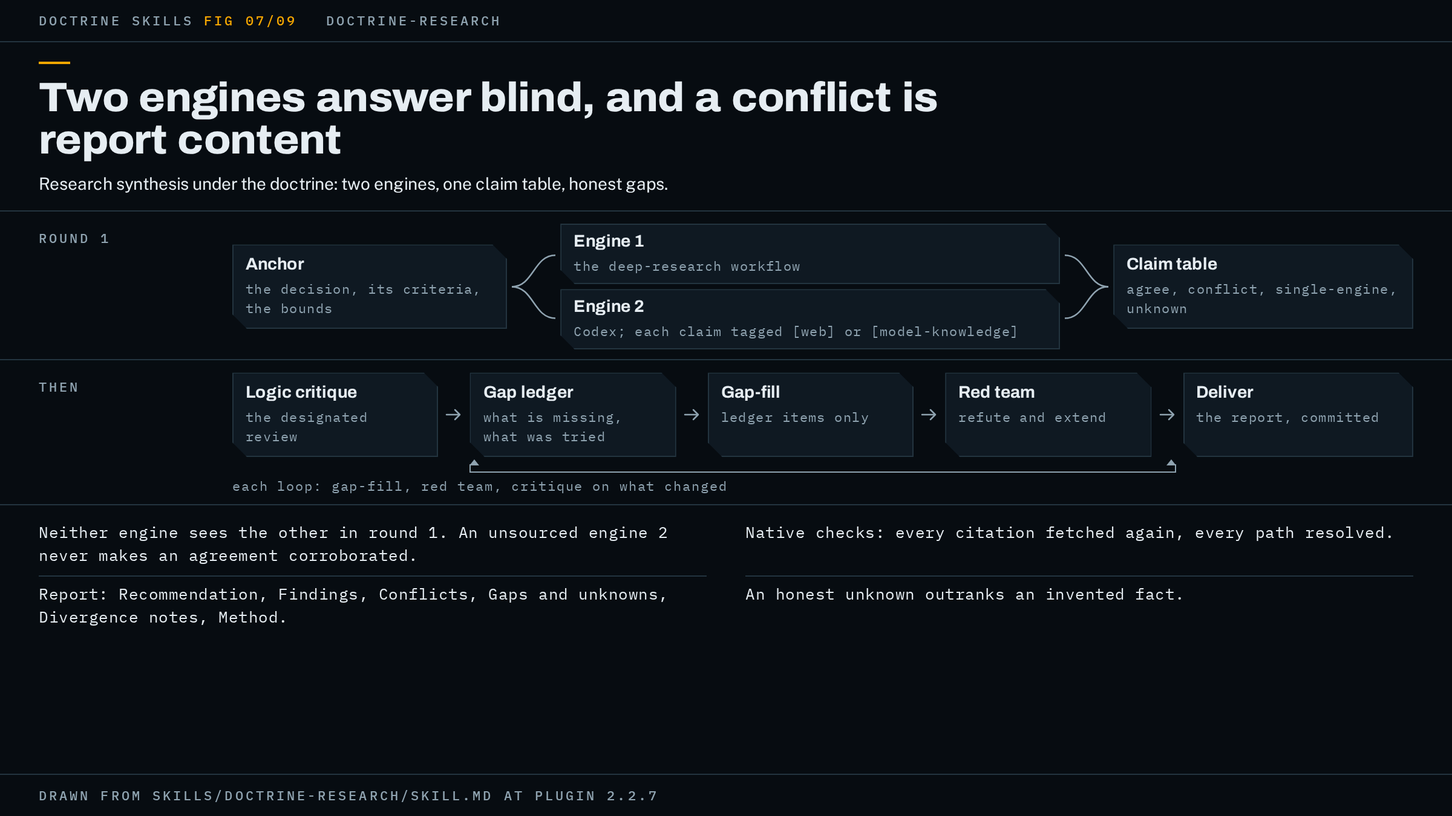
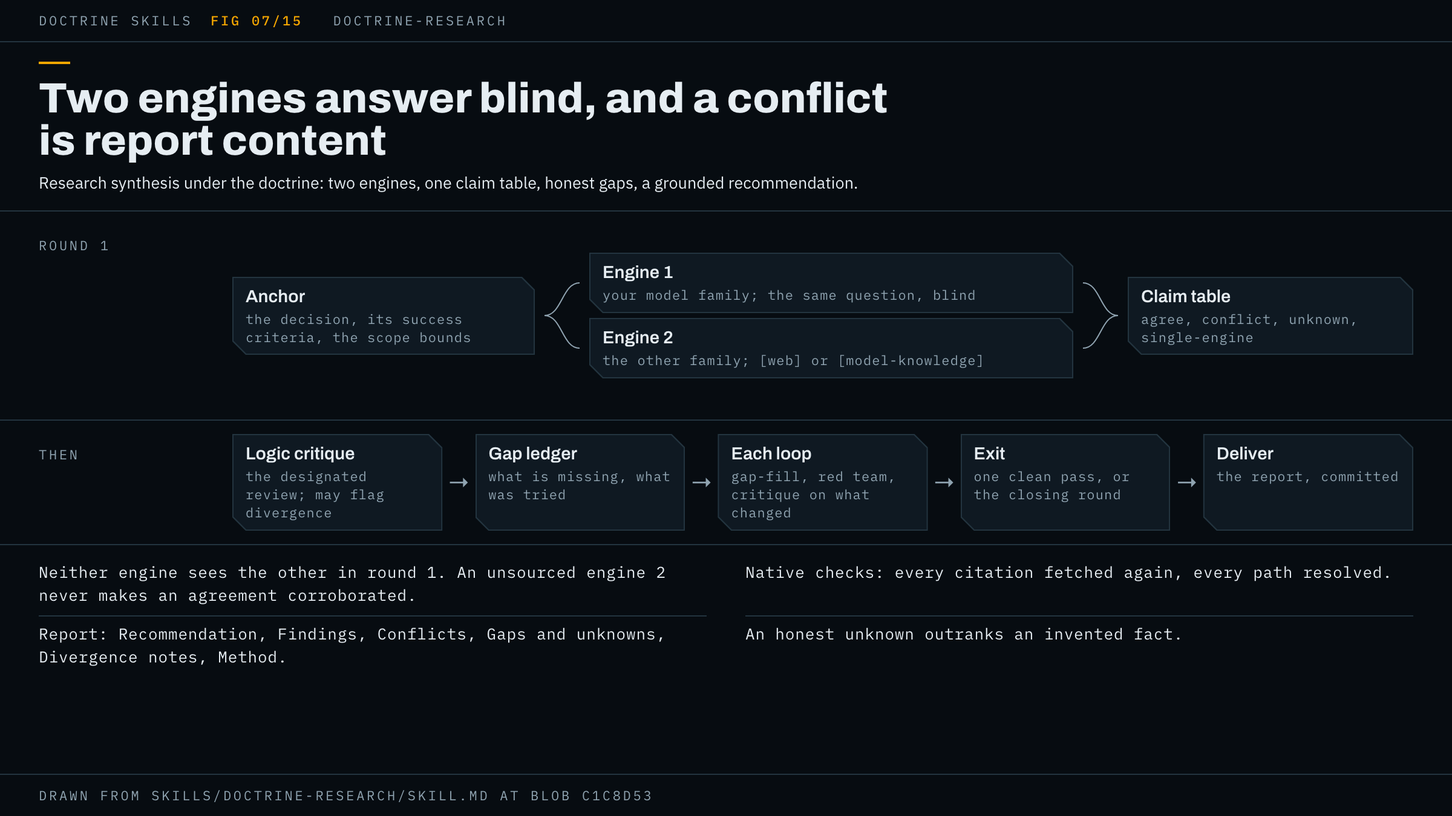
doctrine-research: page rewritten from the skill, figure redrawn in the kit as FIG 07/15 with its tracked source

diff --git a/docs/skills/figures/doctrine-research.html b/docs/skills/figures/doctrine-research.html
@@ -1,0 +1,58 @@
+<!doctype html>
+<!-- Figure source for doctrine-research, started from specimen.html. Render from the repo root:
+     node docs/skills/figures/render.mjs docs/skills/figures/doctrine-research.html docs/skills/doctrine-research.png -->
+<html lang="en">
+<head>
+<meta charset="utf-8">
+<meta name="drawn-from" content="skills/doctrine-research/SKILL.md@c1c8d539e6933528ae0351a19e8e8948991b3032">
+<title>Figure: doctrine-research</title>
+<link rel="stylesheet" href="figure.css">
+</head>
+<body>
+<header class="head"><span>Doctrine skills</span><span class="no">FIG 07/15</span><span>doctrine-research</span></header>
+
+<section class="title">
+  <h1>Two engines answer blind, and a conflict is report content</h1>
+  <p>Research synthesis under the doctrine: two engines, one claim table, honest gaps, a grounded recommendation.</p>
+</section>
+
+<section class="row">
+  <div class="label">Round 1</div>
+  <div class="fan">
+    <div class="col" style="width:250px"><div class="box" id="anchor"><b>Anchor</b><span>the decision, its success criteria, the scope bounds</span></div></div>
+    <svg class="wires" data-from="#anchor" data-to=".engine"></svg>
+    <div class="col" style="width:400px">
+      <div class="box engine"><b>Engine 1</b><span>your model family; the same question, blind</span></div>
+      <div class="box engine"><b>Engine 2</b><span>the other family; [web] or [model-knowledge]</span></div>
+    </div>
+    <svg class="wires" data-from=".engine" data-to="#table"></svg>
+    <div class="col" style="flex:1"><div class="box" id="table"><b>Claim table</b><span>agree, conflict, unknown, single-engine</span></div></div>
+  </div>
+</section>
+
+<section class="row">
+  <div class="label">Then</div>
+  <div class="flow">
+    <div class="box"><b>Logic critique</b><span>the designated review; may flag divergence</span></div>
+    <div class="arrow">→</div>
+    <div class="box"><b>Gap ledger</b><span>what is missing, what was tried</span></div>
+    <div class="arrow">→</div>
+    <div class="box"><b>Each loop</b><span>gap-fill, red team, critique on what changed</span></div>
+    <div class="arrow">→</div>
+    <div class="box"><b>Exit</b><span>one clean pass, or the closing round</span></div>
+    <div class="arrow">→</div>
+    <div class="box"><b>Deliver</b><span>the report, committed</span></div>
+  </div>
+</section>
+
+<section class="notes">
+  <p>Neither engine sees the other in round 1. An unsourced engine 2 never makes an agreement corroborated.</p>
+  <p>Native checks: every citation fetched again, every path resolved.</p>
+  <p>Report: Recommendation, Findings, Conflicts, Gaps and unknowns, Divergence notes, Method.</p>
+  <p>An honest unknown outranks an invented fact.</p>
+</section>
+
+<footer class="foot">Drawn from skills/doctrine-research/SKILL.md at blob c1c8d53</footer>
+<script src="figure.js"></script>
+</body>
+</html>

diff --git a/docs/skills/doctrine-research.md b/docs/skills/doctrine-research.md
@@ -1,113 +1,153 @@
 # doctrine-research
 
-Research under the doctrine: two engines answer the same question without seeing each other, their claims merge into one table, and the report recommends only what that table carries.
+Use it when you need an answer you do not have yet: a question spread across many sources, where a wrong answer is expensive and you want a recommendation whose every claim traces to a page someone fetched. Two engines from different model families answer the question without seeing each other. Their claims merge into one table, every gap gets written down, and the report recommends only what the table carries.
 
-![Two engines run blind on one question, merge into a claim table with a gap ledger, and loop through a logic critique and a red team until a pass comes clean or the prose-deliverable closing round ends the phase.](doctrine-research.png)
+![Round 1 sends the anchor to two blind engines whose claims merge into a claim table. Then a logic critique reads the merged research, the gap ledger lists what is missing, and each loop runs gap-fill, a red team and the critique again until a pass comes clean or the closing round delivers.](doctrine-research.png)
 
-The figure shows the shape of a run in two rows: round 1 runs the anchor into two engines and out to the claim table; the second row is the logic critique, the gap ledger, the gap-fill fan-out, the red team and delivery, with the loop bracket under gap ledger through red team, labelled with what each loop runs. Its footnotes are the independence rule, native checks, the report's sections and the honest-unknown rule.
+The top row of the figure is round 1: the anchor goes to both engines, and both feed the claim table. The bottom row is everything after: the logic critique, the gap ledger, the loop of gap-fill, red team and critique, the exit, and delivery.
 
 ## When to use it, and when not
 
-Use it when you have a multi-source research question that needs a grounded, fact-checked recommendation: something where the answer is spread across web pages, docs and vendor claims, where a wrong answer is expensive, and where you want to see which claims two independent sources agree on and which they do not.
-
-Do not use it for a quick fact lookup. A plain search answers that faster and the gate would cost more than the answer is worth. Do not use it for questions about your own codebase: that is `doctrine-audit`, which reads code rather than sources.
-
-The boundary against the two other prose wrappers is what the deliverable is. `doctrine-write` produces a document you already know the content of, a proposal, a brief, a PRD, a report, and its gate is about the prose being clear, accurate and airtight. `doctrine-docs` sweeps existing documentation against the current implementation. `doctrine-research` produces an answer you do not yet have, and its gate is about whether every claim behind that answer traces to a source someone actually fetched.
-
-## What it asks you first
-
-Before any engine is dispatched, the run asks you whichever of three things your request left open and writes the answers, and what you already supplied, down verbatim as the anchor:
-
-- The decision this research informs.
-- Its success criteria.
-- Its scope bounds: timeframe, region, budget, constraints.
-
-Scope is part of the anchor, not a note beside it. Research that answers the right question about the wrong region has drifted, and a critique that holds the anchor without the bounds cannot see that.
-
-It then asks where the report should land. The suggested form is a `docs/` subfolder of the current project, such as `docs/research/YYYY-MM-DD-<topic>.md`. That destination is agreed once, at kickoff, so delivery needs no second ask.
-
-A question only you can answer, and where the work would be aimed differently depending on the answer, blocks the run until you answer it (doctrine step 1). A value missing inside a direction you have settled does not block: the report carries a visible unknown in that spot, never a guess.
-
-## How the work runs
-
-The wrapper maps its shape onto the hub like this. A phase is one research question, and the hub's loop (doctrine step 5) runs inside it. The dossier, one file opened before the first engine goes out, is the hub's record (doctrine step 1): it holds the anchor, the claim table as it currently stands, and the gap ledger.
-
-Round 1 is dual-engine. Two engines get the same refined question, concurrently, and neither sees the other's output. Engine 1 is Claude, through the stock `deep-research` workflow. Engine 2 is the codex plugin's `codex:codex-rescue` agent, run as a read-only research task, with every claim it returns tagged `[web]` with a fetchable URL or `[model-knowledge]`. Independence is what makes the cross-examination mean anything: a second engine that critiques your draft is anchored to your frame and finds only your kind of gaps.
-
-The run checks whether engine 2 can actually search before counting it as a second sourced engine. That agent's only tool is Bash and it shells out to the Codex CLI, whose web search is opt-in per user config, so on a default install engine 2 answers from model knowledge. The run reads the `web_search` setting in `~/.codex/config.toml` before dispatch and checks again on return: a `[web]` tag with no URL you can fetch is model knowledge whatever it says. The dispatch also says to run in the foreground, because that agent prefers background execution for open-ended work and cannot fetch its own results, so a deep question otherwise comes back as a job handle.
-
-The merge (the wrapper's step 3) puts every claim into one table under one of four labels: agree, where both engines assert it; conflict, where they disagree and both sides are kept with their sources, since conflicts are report content and are never resolved silently; single-engine, unverified until a second source or a check confirms it; and unknown. An unsourced engine 2 does not turn an agreement into corroboration. A claim both engines assert when one of them answered from memory is one search result plus one recollection, and the table files it as single-engine, model-corroborated, with the report saying plainly that the run had one sourced engine. What an unsourced engine 2 is still good for is divergence: where it contradicts engine 1 it has found you something to go and check.
-
-Then the loop. Every unknown and every unverified claim gets a gap ledger entry recording what is missing and what was already tried. Each loop is a targeted gap-fill fan-out over ledger items only, never a full re-run, then a red-team round, then the logic critique re-run on whatever changed. Parallel seats go out the way the hub says (doctrine step 2), and the loop ends the way the hub's prose-deliverable exit says (doctrine step 5). Delivery (doctrine step 7) writes the report to the agreed path and commits it by your project's norm.
-
-## What the gate is for this shape
-
-The hub's gate has three parts and the wrapper fills each slot.
-
-Native checks (doctrine step 3) take the docs-diff form, since there is no code to run: re-verify every edited claim against the source it cites, then run a link and path check, every URL fetched and still carrying the cited content, every repo path or filename in the report resolved on disk. A citation that 404s, redirects to a homepage, or no longer says what you quoted is a blocking finding, and nothing else in the flow looks for one: the red team argues about claims and the logic critique argues about reasoning, and neither opens a link. On top of that come whatever checks your project documents as a gate for the directory the report lands in, a markdown linter, a docs build, a link checker, read from your task runner rather than assumed absent. Where the destination has none, the docs-diff form is the whole of native checks.
-
-The designated review is the logic critique: a dedicated agent that reads the merged research for unsupported leaps, circular sourcing (many citations tracing to one origin), survivorship and recency bias, conflated adjacent questions, and drift from the anchor. It is handed the anchor verbatim, because its whole drift axis is drift from the anchor, and a critique handed the findings alone grades them against themselves. It is also told that a divergence flag is a return format: if the data suggests the real question differs from the one you asked, it returns that as a named finding, and the run puts it to you on receipt. Re-aim or stay is your call. Your ruling goes into the dossier's settled section, so the next loop's fresh critique does not re-open it. Both reviewers, the critique and the red team, are also handed for each citation its URL and the excerpt fetched from it that the claim rests on (fetched before dispatch, since neither opens a link), both engines' original returns beside the merged table, the merge rule that an unsourced engine 2 does not make an agreement corroborated, and the research blocking instances below.
-
-The red team (doctrine step 4), handed the same evidence as the critique plus the gap ledger with its "already tried" column, attacks the merged claim table and the drafted report together, never a single source or a lone finding, because a table without the report's conclusion cannot catch a conclusion the table does not carry. Its axes are the wrapper's blocking instances: a dead, redirected or misread citation; a chain of citations that widens to four sources and narrows to one origin while the report calls it corroborated; a conclusion the claim table does not carry; drift off the anchor; a gap neither closed nor written up; a failed native check. It both refutes and extends the table, and anything it adds is verified from its cited source before it counts. One more confirming source on a claim already sourced is non-blocking and goes on the deferred list; a cleaner phrasing is not a finding.
-
-The record lives beside the report, the agreed destination with a `-worknotes` suffix (`docs/research/YYYY-MM-DD-<topic>-worknotes.md`), or in the scratchpad where that directory is not writable or you do not want working files in the repo. Either way the Method appendix names its path, and at delivery the run asks whether it ships beside the report or is dropped. Its counters and round history sit under a trailing run-state heading marked orchestrator-only, which no reviewer is handed: a red team told how badly the pass needs to be clean holds the one fact it must not.
-
-The exit is the hub's prose-deliverable exit, adopted by name, with one research-shaped precondition on its closing round: every remaining gap closed or written up as unanswerable with the attempts shown. A pass is clean when it produces no blocking finding and leaves none outstanding from an earlier pass. "No new findings" is not the test: an unsupported leap filed in loop 3 and filed again in loop 4 is outstanding, not new. When the round alarm first fires without a clean pass, the gap ledger as it stands goes to you inside the hub's diagnosis, and unless you say stop the run takes one closing round scoped to the diff since the last fully reviewed revision, or to the whole deliverable where no revision was fully reviewed, subject to the gap precondition above, then ends the phase as Shipped at an escalation, with a punch list of what it did not fix, named in the delivery line. The time alarm is separate and does wait: by default it fires two hours after the last round closed, or after the phase opened where none has, puts the same diagnosis to you, and the run continues only on your ruling.
-
-When a dependency is missing: without the `deep-research` workflow, engine 1 is a fan-out of parallel web-search agents with per-claim adversarial verification. Without the codex plugin, engine 2 is a fresh-context subagent with web access, and the report notes that engine diversity was reduced. If engine 2 returns a job handle and has not returned by the time you would merge, it is treated as unavailable and the report says so. The logic critique is a fresh agent and needs nothing installed.
-
-## A worked example
-
-This example is illustrative: it shows the shape of a run, not a recorded one.
-
-You ask for research on which of three managed message queues to adopt for an internal event bus. The run asks first. The decision: which queue the platform team commits to for the next contract term. Success criteria: at-least-once delivery, a documented retention ceiling that meets the audit requirement, and a hosted option in the region you operate in. Scope: that region only, current vendor documentation only, no pricing beyond list. It writes those words into `docs/research/2026-09-10-event-bus-worknotes.md` as the anchor, agrees the report lands at `docs/research/2026-09-10-event-bus.md`, and checks that the repo documents a markdown lint as a gate for `docs/`.
-
-It reads `~/.codex/config.toml`, finds `web_search` enabled, and dispatches both engines in the foreground with the same refined question. Engine 1 returns findings with URLs. Engine 2 returns a tagged list, and on return every `[web]` tag carries a URL the run can fetch, so it counts as a second sourced engine.
-
-The merge fills the claim table. Both engines cite the same retention ceiling for vendor A from its docs page: agree. Engine 1 says vendor B's regional endpoint is generally available and engine 2 says it is in preview, each with a different page: conflict, both sides kept. Only engine 1 found vendor C's delivery guarantee: single-engine. Nobody found vendor C's retention ceiling: unknown, and a gap ledger entry with the searches already tried.
-
-Loop 1's gap-fill fan-out chases the ledger entries with the anchor pasted in. It finds vendor C's ceiling on a page linked from its changelog. The red team, handed the table, the drafted report, each citation's fetched excerpt, both engines' returns and the gap ledger, files one blocking finding: the draft recommends vendor A partly on a cost claim that the table does not carry, since pricing beyond list was out of scope. The logic critique re-runs on the diff and files nothing blocking. The run strikes the cost sentence, and because that repair changed a claim in the deliverable, loop 2 runs the full pass on the new revision. Native checks re-fetch every URL, resolve every path, and run the repo's markdown lint. The red team's attack list names the four remaining claims it tried to break and could not. The logic critique returns clean, with no divergence flag. That is one clean pass with nothing outstanding, so the phase exits.
-
-The report opens with its gate line, in the form the README shows for a clean pass:
-
-```text
-Gate: clean pass on 4a3e4ca, real run on record. No blockers open.
-```
-
-Here "real run" is the docs-only check: the deliverable does not execute, so the link and path check is that run. Under the line, the report's sections come in the wrapper's order. Recommendation: vendor A, grounded in the table's agree and single-engine rows. Findings ranked by confidence, each cited and tagged both-engines, single-engine or contested. Conflicts: the vendor B endpoint status, both sources shown. Gaps and unknowns: none open, one closed with its search trail. Divergence notes: none. Method appendix: two loops, the source list, one red-team round per loop, the logic critique named as the designated review, the native checks that ran and none that could not, the deferred non-blocking list, and the worknotes path. In chat you get the recommendation and one question: whether the worknotes file ships beside the report or is dropped. Nothing else needed your judgment. The run then commits the report by whatever norm your repo documents.
-
-## How to invoke it
-
-The trigger is deep research done with the doctrine: a multi-source research question that needs a grounded, fact-checked recommendation. Say what the decision is and name the doctrine:
+It fires when you ask for deep research done with the doctrine: a multi-source question that needs a grounded, fact-checked recommendation. Name the doctrine and the decision:
 
 ```text
 use doctrine-research: which managed message queue should the platform team adopt for the internal event bus? Recommend one, with sources.
 ```
 
-It will ask for the success criteria and scope bounds before it dispatches anything.
+Do not use it for a quick fact lookup, which a plain search answers faster. Do not use it for questions about your own code: that is `doctrine-audit`, which reads code, not sources.
+
+Against the other prose skills, the line is what you start with. [`doctrine-write`](doctrine-write.md) writes a document whose content you already have. [`doctrine-docs`](doctrine-docs.md) brings existing documentation in line with the code. `doctrine-research` produces the content itself. You can chain `doctrine-write` after it to turn the report into a polished document.
+
+It is a wrapper: it loads the [`doctrine`](doctrine.md) skill first and takes its posture from there. The hub supplies the record, the gate, the two alarms and the end states. This skill supplies the research shape: the engines, the claim table, the gap ledger and what blocks in a report.
+
+## What it asks you
+
+Before any engine starts, it asks whichever of these your request left open:
+
+- The decision the research informs.
+- Its success criteria.
+- Its scope bounds: timeframe, region, budget, constraints.
+
+All three, in your own words, are the anchor, the standard every later check compares against. Scope sits inside the anchor because research that answers the right question about the wrong region has drifted, and a critique cannot see that without the bounds.
+
+It then asks where the report should land, suggesting `docs/research/YYYY-MM-DD-<topic>.md` in the current project. That answer is also your permission to write and commit the report there, so delivery does not ask again.
+
+Later it may come back to you with three more things:
+
+- **A divergence flag.** When the data suggests the real question differs from the one you asked, the logic critique says so, and you decide whether to re-aim or stay. It never pivots on its own.
+- **An alarm.** When the loop runs long, it stops and puts a diagnosis to you (see [How it ends](#how-it-ends)).
+- **The dossier.** At delivery, whether the working file ships beside the report or is dropped.
+
+## How a run goes
+
+### The dossier
+
+Before the first engine goes out, the run opens one working file, the dossier, beside the report with a `-worknotes` suffix (`docs/research/YYYY-MM-DD-<topic>-worknotes.md`), or in the session's scratchpad if you do not want working files in the repo. It holds the anchor, the claim table as it stands, and the gap ledger. Loop counts and round history sit under a trailing `## Run state (orchestrator only)` heading that no reviewer is handed, so no reviewer knows how badly a pass needs to come clean.
+
+The run pastes what each agent needs into its prompt rather than pointing at the file. An agent pointed at a file works from its own summary of it.
+
+### Round 1: two engines, blind
+
+Both engines get the same refined question at the same time, and neither sees the other's output. Independence is the point: an engine that reads your draft first finds only your kind of gaps.
+
+| | Engine 1, your own model family | Engine 2, the other model family |
+|---|---|---|
+| On Claude Code | the built-in `deep-research` workflow, unmodified | the codex plugin's `codex:codex-rescue` agent, which shells out to the Codex CLI |
+| On Codex | a fan-out of web-search agents, each claim adversarially verified | the Claude Code CLI run headless (`claude -p`), with web search and fetch allowed |
+
+Engine 2 runs as a read-only research task and tags every claim `[web]` with a fetchable URL, or `[model-knowledge]`. The run checks that it can really search before counting it as a second sourced engine, and checks again on return: a `[web]` tag with no URL that fetches is model knowledge. On Claude Code that means reading the top-level `web_search` setting in `~/.codex/config.toml`. Only `"live"` reaches the live web. On Codex, engine 1 needs the same `web_search = "live"` in `$CODEX_HOME/config.toml`.
+
+On Claude Code the dispatch asks engine 2 to run in the foreground, because it prefers to background open-ended work. A job handle that comes back anyway is fetched with `/codex:status <job-id>`. A handle is never merged as an answer: an engine 2 that has not returned by merge time is unavailable, and the report says so.
+
+### The claim table
+
+The merge files every claim under one of four labels:
+
+- **Agree**: both engines assert it.
+- **Conflict**: they disagree. Both sides stay, with their sources. A conflict is report content and is never resolved silently.
+- **Single-engine**: unverified until a second source or a check confirms it.
+- **Unknown**.
+
+An engine 2 that answered from memory does not corroborate anything. A claim both engines assert, when one of them only recalled it, is filed as single-engine, model-corroborated, and the report says plainly that the run had one sourced engine. Such an engine still earns its place by disagreeing: where it contradicts engine 1, the conflict gets a fetch.
+
+### The logic critique and the gap ledger
+
+A dedicated agent reads the merged research for unsupported leaps, circular sourcing (many citations tracing to one origin), survivorship and recency bias, adjacent questions conflated, and drift from the anchor. It returns the divergence flag described above when it sees one. Your ruling goes into the dossier's settled section so the next loop's fresh critique does not reopen it.
+
+Every unknown and every unverified claim then gets a gap ledger entry: what is missing and what was already tried.
+
+### The loop
+
+Each loop is:
+
+1. **Gap-fill**: a targeted fan-out over ledger entries only, never a full re-run. Each agent gets the anchor, its entries with the searches already tried, and the tag rule.
+2. **Red team**: attacks the claim table and the drafted report together. It refutes and extends the table, and anything it adds counts only once verified from its cited source.
+3. **Logic critique** again, on whatever changed.
+
+Before either reviewer goes out, the run fetches every citation and hands both reviewers its URL and the excerpt the claim rests on, both engines' original returns, the rule that an unsourced engine 2 does not corroborate, the blocking instances below and your settled rulings. Neither reviewer opens a link, so without the excerpts neither could see a misread citation.
+
+## What the gate checks
+
+The hub's gate has three parts, and this skill fills each one:
+
+- **Native checks**: every claim edited since the last pass is re-verified against its cited source. Every URL is fetched again and must still carry the cited content, and every repo path must resolve. On top of that runs whatever your project documents as a gate for the directory the report lands in, such as a Markdown linter or a link checker. Nothing else in the flow opens a link, so a dead citation is caught here or nowhere.
+- **Designated review**: the logic critique. The report's Method appendix says so.
+- **Red team**: the other-model-family seat, attacking the table and the report together.
+
+A finding blocks the pass when it is:
+
+- a dead, redirected or misread citation;
+- a chain of citations that narrows to one origin while the report calls it corroborated;
+- a conclusion the claim table does not carry;
+- drift off the anchor;
+- a gap neither closed nor written up;
+- a failed native check.
+
+One more confirming source for a claim already sourced does not block. It goes on a deferred list named at delivery. A cleaner phrasing is not a finding at all.
+
+A pass is clean when it raises no blocking finding and none stands open from an earlier pass. "No new findings" is not the test: a leap filed in loop 3 and filed again in loop 4 is still outstanding.
+
+## How it ends
+
+The exit is the hub's prose-deliverable exit. The phase exits on one clean pass of all three parts. If no pass has come clean when the round alarm first fires (by default after four rounds that found a blocking finding), you get a diagnosis with the gap ledger as it stands inside it. Unless you say stop, one closing round then runs, scoped to the changes since the last fully reviewed revision, or to the whole report if none was. Before that round, every remaining gap must be closed or written up as unanswerable, with the attempts shown. The phase then ends Shipped at an escalation, with a punch list of what it did not fix.
+
+The time alarm is separate and does wait for you. By default it fires two hours after the last round closed, or after the phase opened where none has, and the loop goes on only on your ruling.
+
+A run ends in one of the hub's five states: Exited (the only clean one), Stopped, Shipped at an escalation, Blocked on a question only you can answer, or Unable to continue. The report and the delivery line say which.
+
+Delivery writes the report to the agreed path and commits it by your project's norm. Its sections, in order:
+
+1. **Recommendation**, bottom line first, grounded in the claim table.
+2. **Findings**, ranked by confidence, each cited and tagged both-engines, single-engine or contested.
+3. **Conflicts**.
+4. **Gaps and unknowns**.
+5. **Divergence notes**, if any, and how you ruled.
+6. **Method appendix**: loops run, sources, red-team rounds, the logic critique named as the designated review, which native checks ran and which could not and why, the deferred list, and the dossier's path.
+
+In chat you get the recommendation and anything that needs your judgment.
 
 ## Requirements
 
-Nothing has to be installed. Each named dependency has a fallback, and the report names every substitution.
+Nothing has to be installed. Each dependency has a fallback, and the report names every substitution.
 
-- Claude Code's `deep-research` workflow, engine 1. Built into Claude Code on hosts that carry it, nothing to install; it is a workflow, not a skill, so it does not show in a skills list. Without it: a fan-out of parallel web-search agents with per-claim adversarial verification.
-- OpenAI's codex plugin with the Codex CLI logged in, engine 2 and the hub's different-model red team. `/codex:setup` verifies it. Without it: a fresh-context subagent with web access as engine 2, with the report noting reduced engine diversity, and a fresh-context subagent prompted to refute, with the verify-from-source rule in its brief, as the red team.
-- superpowers, for parallel dispatch. Without it: parallel Agent tool calls, each prompt assembled rather than summarised.
-- herdr, optional, gives every subagent a live pane you can read while it works. Nothing depends on it. See [watching a run](../watching-a-run.md).
+- **On Claude Code**: the `deep-research` workflow, built into hosts that carry it. It is a workflow, not a skill, so it does not show in a skills list. Without it, engine 1 is a fan-out of web-search agents with per-claim adversarial verification.
+- **On Claude Code**: OpenAI's codex plugin with the Codex CLI logged in, for engine 2 and the red team. `/codex:setup` checks it.
+- **On Codex**: the Claude Code CLI (`claude`), installed and signed in, for engine 2 and the red team.
+- Without the other-model-family seat, engine 2 is a fresh-context agent with web access and the report notes reduced engine diversity. The red team becomes a fresh-context agent prompted to refute, from the same model family.
 
-The install commands and what each absence means are in [docs/requirements.md](../requirements.md). The hub's page, [doctrine.md](doctrine.md), has the full Fallbacks table.
+The install commands and what each absence costs are in [docs/requirements.md](../requirements.md). The hub's page, [doctrine.md](doctrine.md), has the full fallbacks table. To watch the agents work in live panes, see [watching a run](../watching-a-run.md).
 
 ## Red flags
 
-Signs a run went wrong, in the order you are likely to see them:
+Signs a run went wrong:
 
-- Both engines "agree" and neither one fetched a page. That is two recollections, not corroboration.
-- Engine 2 came back as a job handle and the handle was merged as if it were an answer.
-- The logic critique was sent the merged findings without the anchor, so it graded the findings against themselves.
+- Both engines "agree" and neither fetched a page.
+- Engine 2 returned a job handle and the handle was merged as an answer.
+- The logic critique got the merged findings without the anchor, so it graded them against themselves.
 - Four citations trace to one origin and the report calls the claim corroborated.
 - A gap was filled with a plausible number because the loop was otherwise clean.
-- A finding the previous loop filed was re-filed and waved through as "not new".
+- A finding filed in the last loop was filed again and waved through as "not new".
 - The report shipped with a URL nobody re-fetched or a repo path nobody resolved.
-- On loop 3 the gap ledger and the counters exist only in the conversation, where a compaction takes them.
+- On loop 3, the gap ledger and the counters exist only in the conversation, where a compaction takes them.
 
-The specification is [`skills/doctrine-research/SKILL.md`](../../skills/doctrine-research/SKILL.md); trust it over this page wherever the two disagree.
+The specification is [`skills/doctrine-research/SKILL.md`](../../skills/doctrine-research/SKILL.md). Trust it over this page wherever the two disagree.
